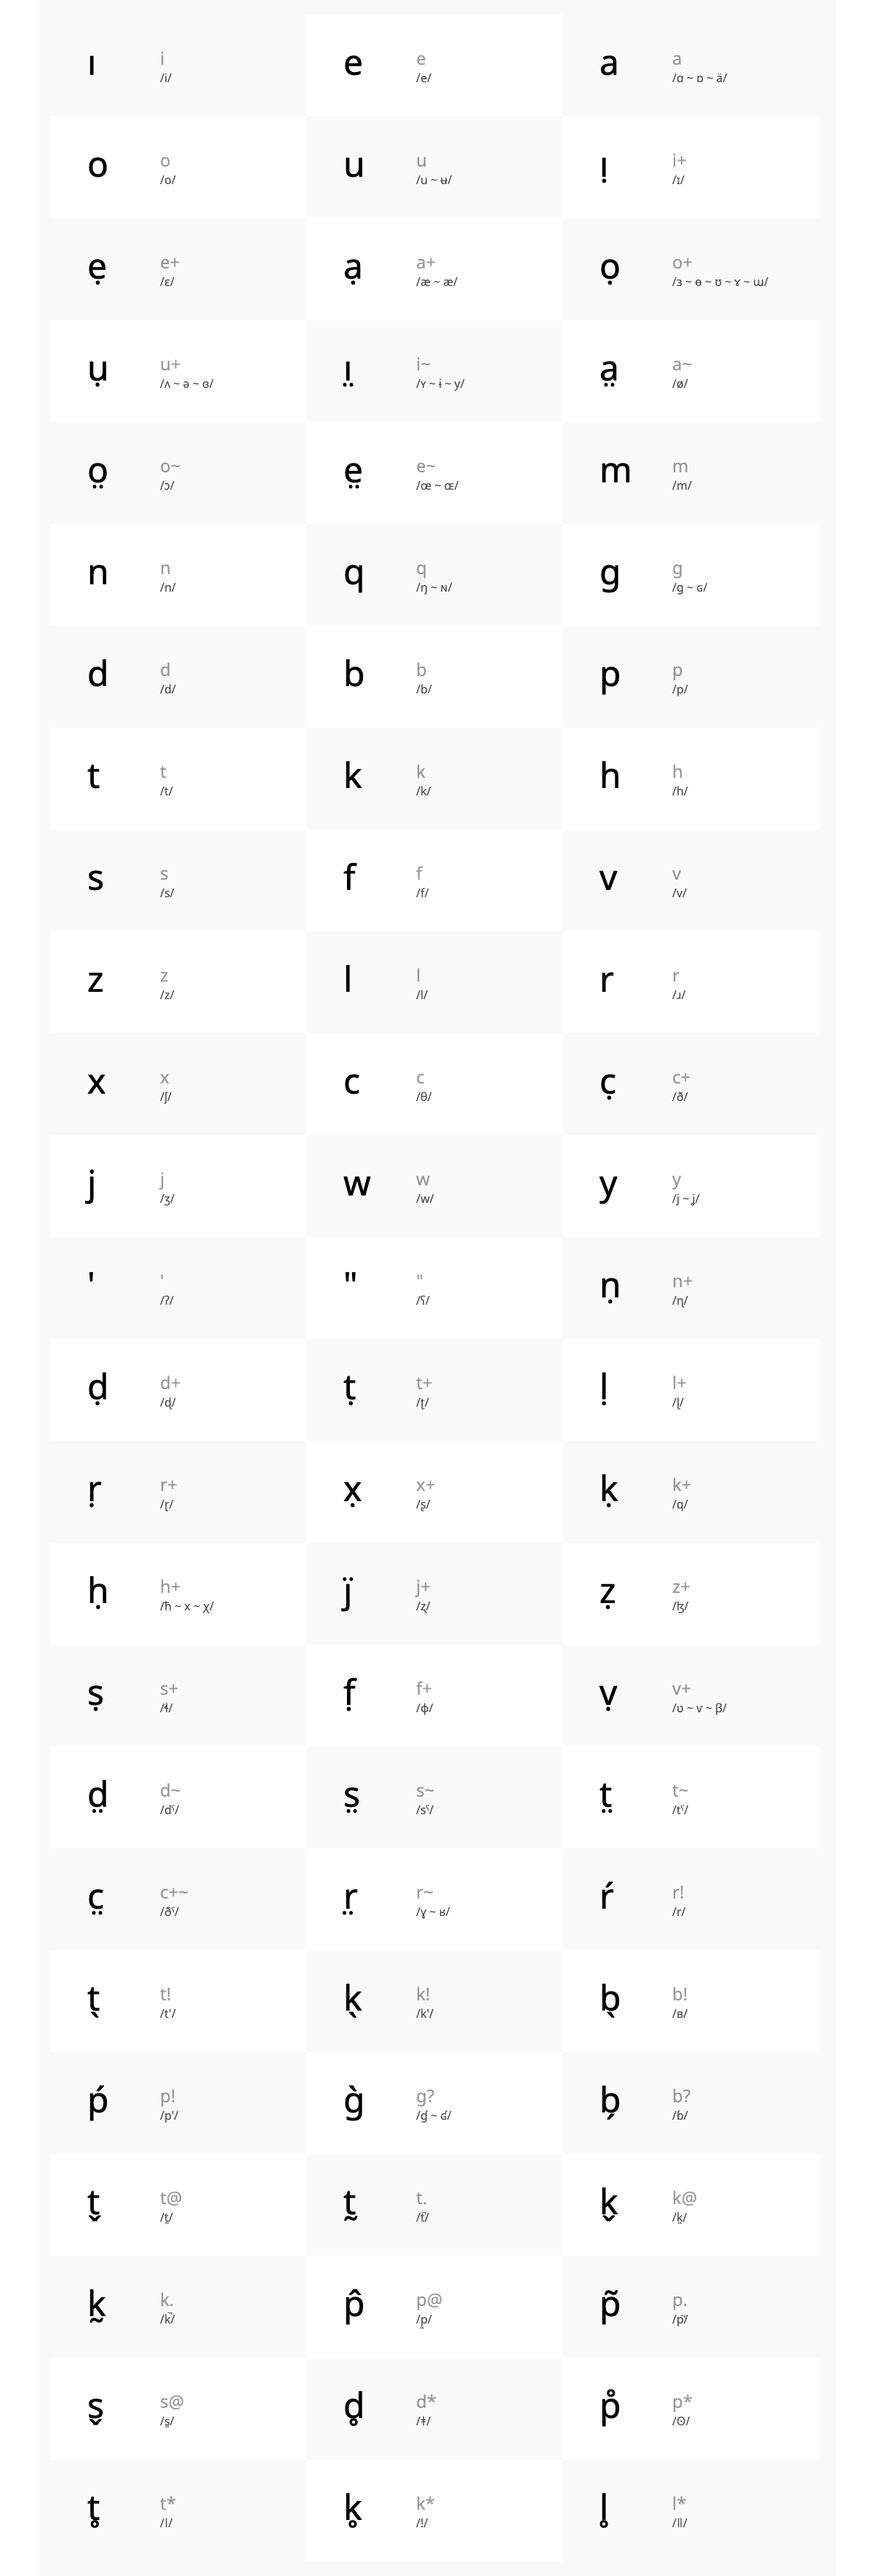
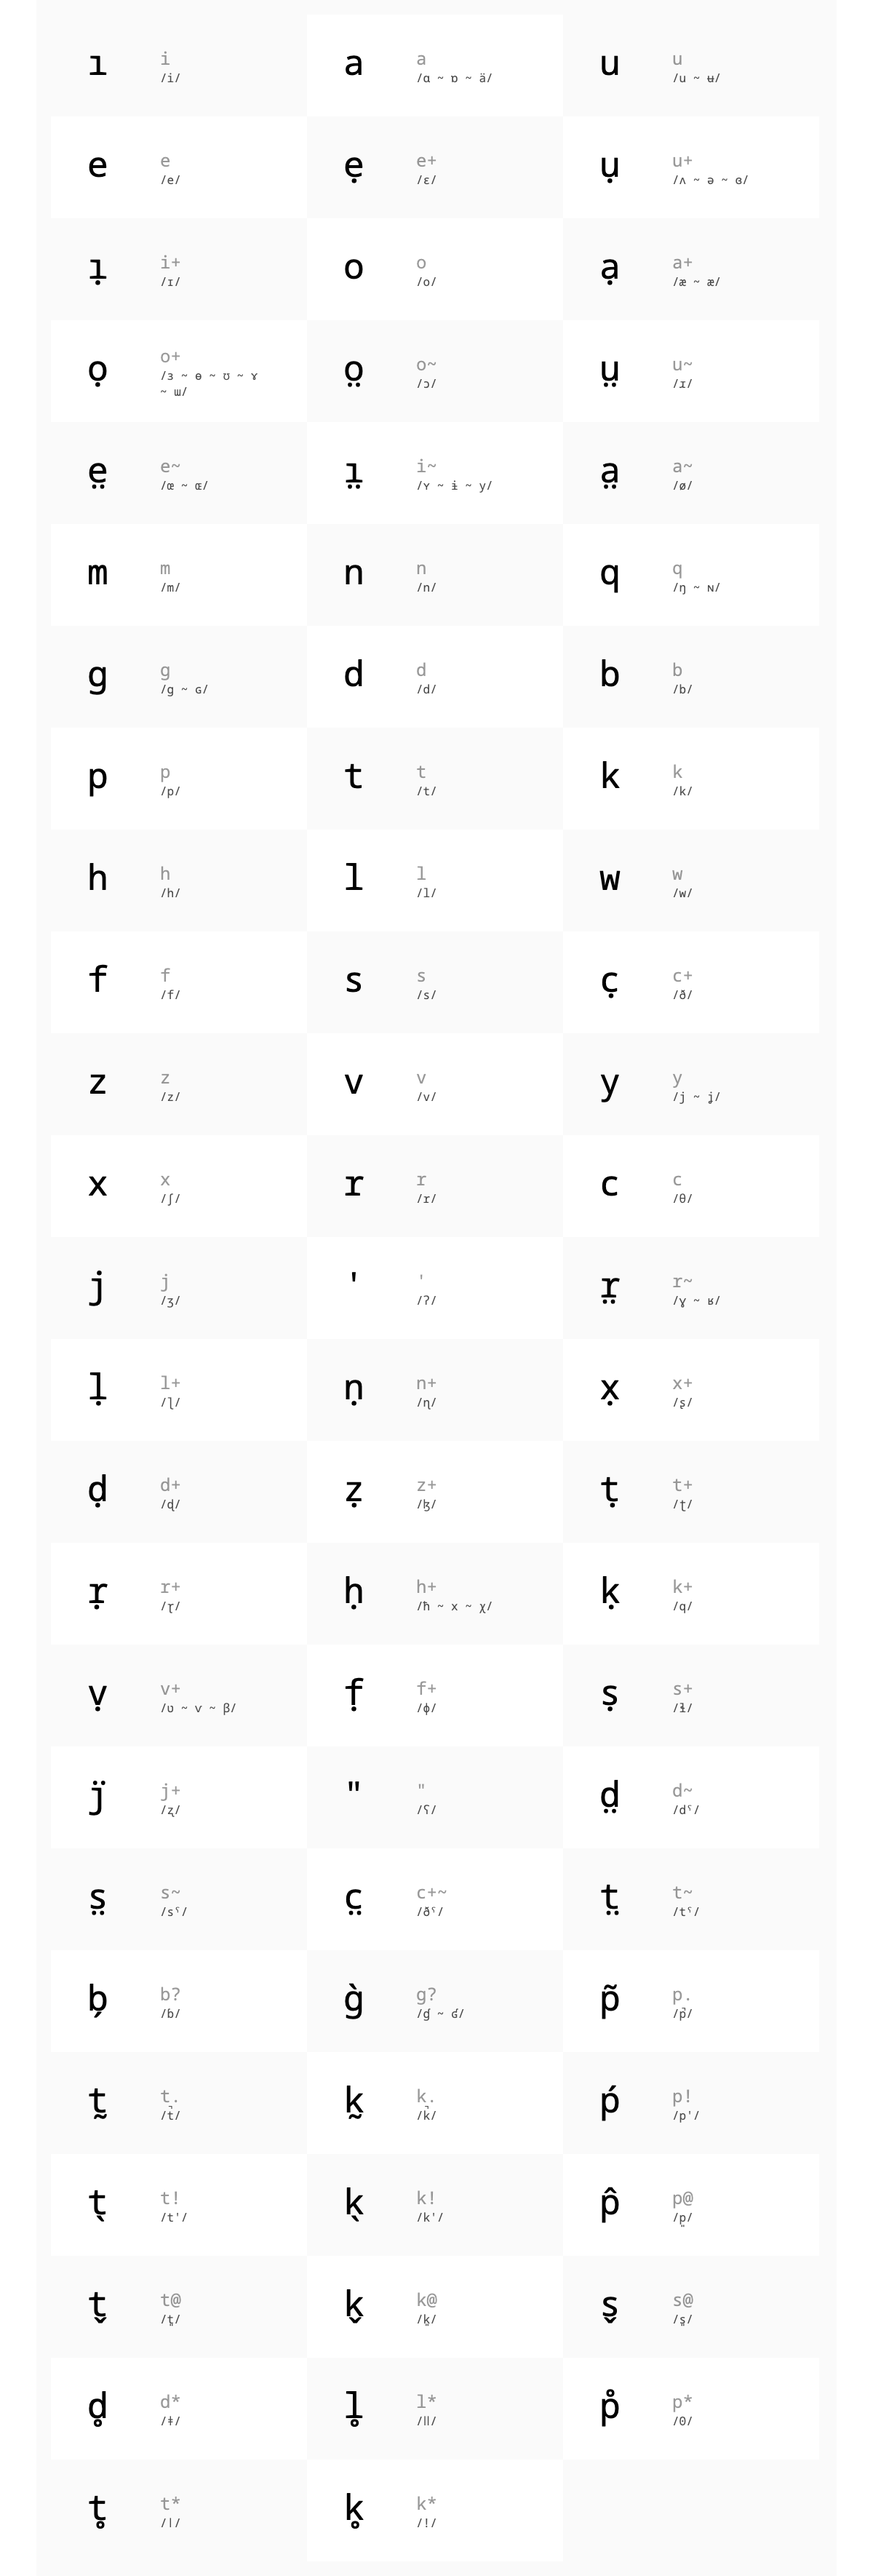
update

diff --git a/form.js b/form.js
@@ -376,7 +376,6 @@ const ASCII_TO_UNICODE = [
   { text: '(u_)', code: `u${m.u.dot}${m.u.grave}` },
   { text: '(u)', code: `u${m.u.dot}` },
 
-  { text: 'm+', code: `m${m.d.dot}` },
   { text: 'm', code: `m` },
   { text: 'n+', code: `n${m.d.dot}` },
   { text: 'n', code: `n` },
@@ -423,13 +422,12 @@ const ASCII_TO_UNICODE = [
   { text: 'h', code: `h` },
   { text: 'j+', code: `ȷ̈` },
   { text: 'j', code: `j` },
+  { text: 's!', code: `s${m.u.acute}` },
   { text: 's+', code: `s${m.d.dot}` },
   { text: 's~', code: `s${m.d.ddot}` },
   { text: 's@', code: `s${m.d.down}` },
   { text: 's', code: `s` },
-  { text: 's!', code: `s${m.u.acute}` },
   { text: 'f+', code: `f${m.d.dot}` },
-  { text: 'f~', code: `f${m.d.ddot}` },
   { text: 'f', code: `f` },
   { text: 'v+', code: `v${m.d.dot}` },
   { text: 'v', code: `v` },
@@ -444,16 +442,13 @@ const ASCII_TO_UNICODE = [
   { text: 'l', code: `l` },
   { text: 'r~', code: `r${m.d.ddot}` },
   { text: 'r+', code: `r${m.d.dot}` },
-  { text: 'r!', code: `r${m.u.acute}` },
   { text: 'r', code: `r` },
-  { text: 'x~', code: `x${m.d.ddot}` },
+  { text: 'x!', code: `x${m.d.acute}` },
   { text: 'x+', code: `x${m.d.dot}` },
   { text: 'x@', code: `x${m.d.down}` },
   { text: 'x', code: `x` },
   { text: 'w', code: `w` },
-  { text: 'w+', code: `w${m.d.dot}` },
   { text: 'y', code: `y` },
-  { text: 'y+', code: `y${m.u.dot}` },
 ]
 
 const IPA_TO_ASCII = [
@@ -488,6 +483,7 @@ const IPA_TO_ASCII = [
   { text: 'ʌ', code: 'u+' },
   { text: 'ə', code: 'u+' },
   { text: 'ɞ', code: 'u+' },
+  { text: 'ɹ', code: 'u~' },
 
   { text: 'b', code: 'b' },
   { text: 'ɓ', code: 'b?' },
@@ -532,7 +528,6 @@ const IPA_TO_ASCII = [
   { text: 'ɲ', code: 'ny' },
   { text: 'l', code: 'l' },
   { text: 'ɭ', code: 'l+' },
-  { text: 'ɫ', code: 'lr~' },
   { text: 'ʎ', code: 'ly' },
   { text: 'ǁ', code: 'l*' },
   { text: 'p͈', code: 'p@' },
@@ -540,12 +535,11 @@ const IPA_TO_ASCII = [
   { text: 'p', code: 'p' },
   { text: 'p\'', code: 'p!' },
   { text: 'ʘ', code: 'p*' },
-  { text: 'ɹ', code: 'r' },
-  { text: 'r', code: 'r!' },
+  { text: 'r', code: 'r' },
   { text: 'ɽ', code: 'r+' },
   { text: 'ɣ', code: 'r~' },
   { text: 'ʁ', code: 'r~' },
-  { text: 'ʀ', code: 'r~!' },
+  { text: 'ʀ', code: 'r~r~' },
   { text: 's͈', code: 's@' },
   { text: 'sˤ', code: 's~' },
   { text: 'ɬ', code: 's+' },
@@ -566,7 +560,7 @@ const IPA_TO_ASCII = [
   { text: 'ɰ', code: 'w+' },
   { text: 'ʃ', code: 'x' },
   { text: 'ʂ', code: 'x+' },
-  { text: 'ɕ', code: 'x~' },
+  { text: 'ɕ', code: 'xy' },
   { text: 'j', code: 'y' },
   { text: 'ʝ', code: 'y' },
   { text: 'ɥ', code: 'yw' },

diff --git a/test.js b/test.js
@@ -8,11 +8,11 @@ match('HaarijE', 'ḥaarıjẹ')
 match('eTemu', 'eṭemu')
 match('txya^a_a^u', 'txyáàáu')
 match('hwpo~kUimUno~s', 'hwpo̤kụımụno̤s')
-match('sinh(o)r!Esi', 'sınhȯŕẹsı')
+match('sinh(o)rEsi', 'sınhȯrẹsı')
 match("batoo'aH", "batoo'aḥ")
 match('aiyur~aK', 'aıyur̤aḳ')
 match("s'or~ya&te", "s'or̤ya̰te")
-match('t!ar!Eba', 't̖aŕẹba')
+match('t!arEba', 't̖arẹba')
 match('txhaK!EnEba', 'txhaḳ̖ẹnẹba')
 
 function match(a, b) {
